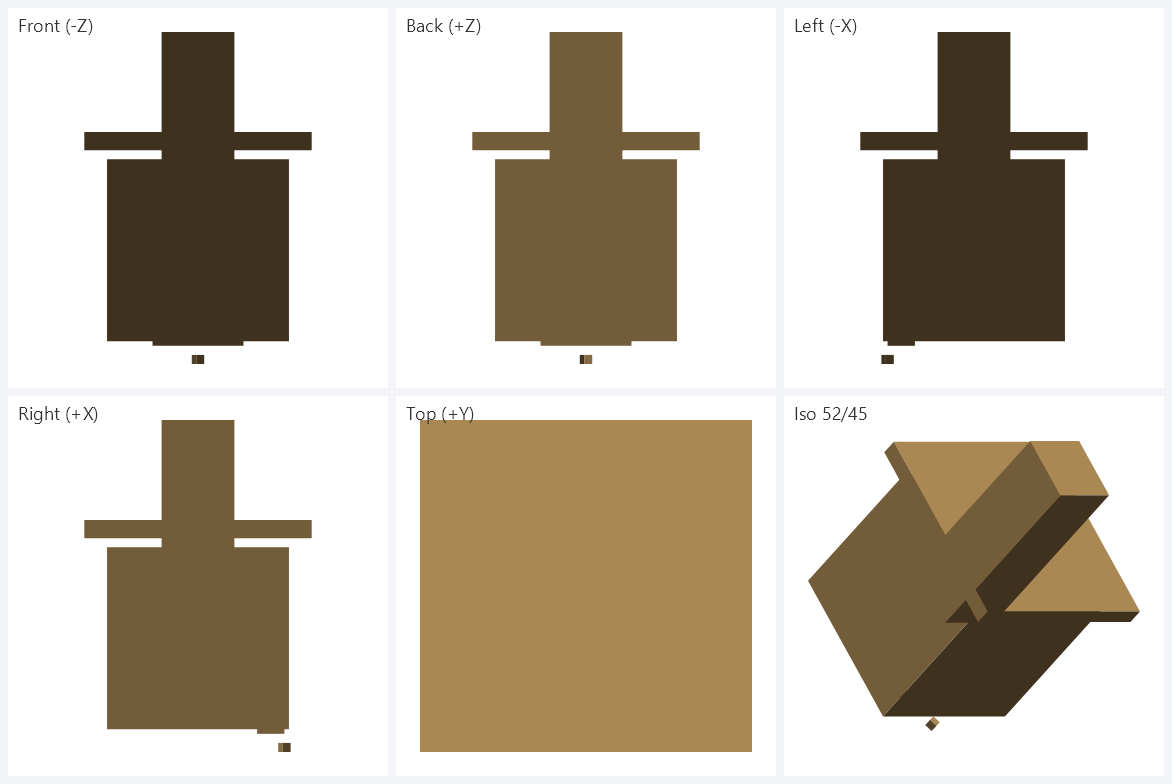
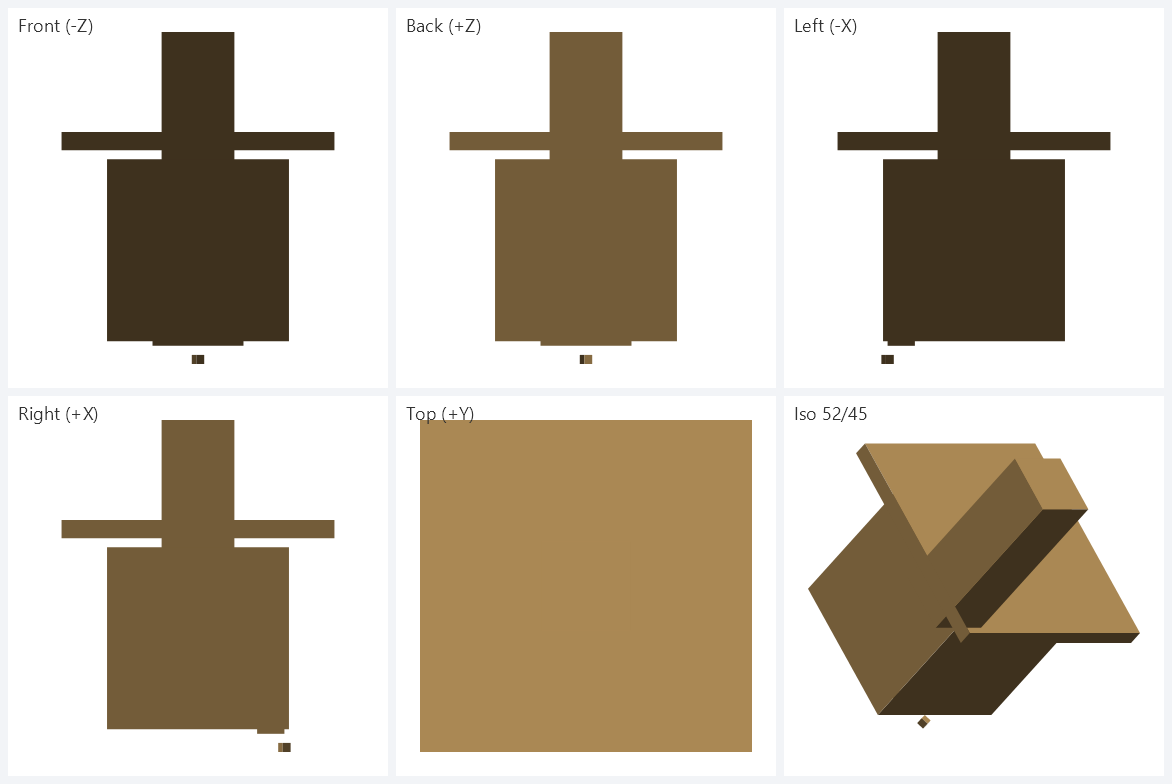
feat: live watcher and error image for .cubes preview

diff --git a/Src/Watcher.cs b/Src/Watcher.cs
@@ -1,0 +1,101 @@
+using System.Diagnostics;
+using SkiaSharp;
+
+namespace Modeler;
+
+/// <summary>
+/// Живой просмотрщик: перерисовывает PNG при изменении .cubes (вотчер файла).
+/// Открывает картинку в программе просмотра по умолчанию; при изменении файла
+/// перерисовывает и, если тот же просмотрщик не обновляет картинку сам, перезапускает его.
+/// </summary>
+public static class Watcher
+{
+    public static int Run(string cubesPath, string outPath, SKColor color, bool open)
+    {
+        string fullPath = Path.GetFullPath(cubesPath);
+        if (!File.Exists(fullPath))
+        {
+            Console.Error.WriteLine($"Файл не найден: {fullPath}");
+            return 2;
+        }
+
+        Console.WriteLine($"Модель:   {fullPath}");
+        Console.WriteLine($"Превью:   {Path.GetFullPath(outPath)}");
+        Console.WriteLine("Сохрани .cubes — картинка обновится. Ctrl+C для выхода.");
+
+        RenderOnce(fullPath, outPath, color);
+        if (open) OpenViewer(outPath);
+
+        var lastWrite = File.GetLastWriteTimeUtc(fullPath);
+        while (true)
+        {
+            Thread.Sleep(250);
+            if (!File.Exists(fullPath)) continue;
+
+            var write = File.GetLastWriteTimeUtc(fullPath);
+            if (write == lastWrite) continue;
+            lastWrite = write;
+
+            // Небольшая пауза: редактор мог ещё держать файл на запись.
+            Thread.Sleep(120);
+            RenderOnce(fullPath, outPath, color);
+            if (open) OpenViewer(outPath);
+        }
+    }
+
+    private static void RenderOnce(string cubesPath, string outPath, SKColor color)
+    {
+        try
+        {
+            PreviewSheet.Render(cubesPath, outPath, color);
+        }
+        catch (CubeParseException ex)
+        {
+            // Ошибку показываем в консоли и в картинке-заглушке, чтобы было видно глазом.
+            Console.Error.WriteLine("Ошибка разбора: " + ex.Message);
+            ErrorImage.Render(outPath, ex.Message);
+        }
+        catch (IOException ex)
+        {
+            Console.Error.WriteLine("Файл занят: " + ex.Message);
+        }
+    }
+
+    private static void OpenViewer(string outPath)
+    {
+        try
+        {
+            Process.Start(new ProcessStartInfo(Path.GetFullPath(outPath)) { UseShellExecute = true });
+        }
+        catch (Exception ex)
+        {
+            Console.Error.WriteLine("Не удалось открыть просмотрщик: " + ex.Message);
+        }
+    }
+}
+
+/// <summary>Картинка с текстом ошибки — вместо модели, когда .cubes не разбирается.</summary>
+public static class ErrorImage
+{
+    public static void Render(string outPath, string message)
+    {
+        const int width = 900, height = 300;
+        using var surface = SKSurface.Create(new SKImageInfo(width, height));
+        var canvas = surface.Canvas;
+        canvas.Clear(new SKColor(0x2b, 0x1d, 0x1d));
+
+        using var title = new SKFont(SKTypeface.FromFamilyName("Segoe UI") ?? SKTypeface.Default, 26);
+        using var body = new SKFont(SKTypeface.FromFamilyName("Consolas") ?? SKTypeface.Default, 18);
+        using var paint = new SKPaint { Color = new SKColor(0xff, 0x8a, 0x80), IsAntialias = true };
+
+        canvas.DrawText("Ошибка в .cubes", 30, 60, title, paint);
+        canvas.DrawText(message, 30, 120, body, paint);
+
+        var dir = Path.GetDirectoryName(Path.GetFullPath(outPath));
+        if (!string.IsNullOrEmpty(dir)) Directory.CreateDirectory(dir);
+        using var image = surface.Snapshot();
+        using var data = image.Encode(SKEncodedImageFormat.Png, 100);
+        using var stream = File.OpenWrite(outPath);
+        data.SaveTo(stream);
+    }
+}

diff --git a/Program.cs b/Program.cs
@@ -13,6 +13,24 @@ public static class Program
             return a == 0 && b == 0 ? 0 : 1;
         }
 
+        if (args.Length > 0 && args[0] == "--watch")
+        {
+            if (args.Length < 2)
+            {
+                Console.Error.WriteLine("Использование: Modeler --watch <файл.cubes> [выход.png] [#rrggbb] [--open]");
+                return 2;
+            }
+            string cubesFile = args[1];
+            string png = args.Length > 2 && !args[2].StartsWith("--") && !args[2].StartsWith("#")
+                ? args[2]
+                : Path.ChangeExtension(cubesFile, ".png");
+            var watchColor = args.FirstOrDefault(a => a.StartsWith("#")) is { } hex
+                ? SKColor.Parse(hex)
+                : new SKColor(0xb0, 0x8d, 0x57);
+            bool open = args.Contains("--open");
+            return Watcher.Run(cubesFile, png, watchColor, open);
+        }
+
         if (args.Length > 0 && args[0] == "--render")
         {
             if (args.Length < 3)
@@ -53,6 +71,7 @@ public static class Program
         Console.WriteLine("Modeler — конструктор моделей .cubes");
         Console.WriteLine("  Modeler --test                          прогон тестов");
         Console.WriteLine("  Modeler --render <file.cubes> <out.png> [#color]   лист видов в PNG");
+        Console.WriteLine("  Modeler --watch <file.cubes> [out.png] [#color] [--open]   живой предпросмотр");
         Console.WriteLine("  Modeler <файл.cubes>                    разбор и печать дерева");
         return 0;
     }
